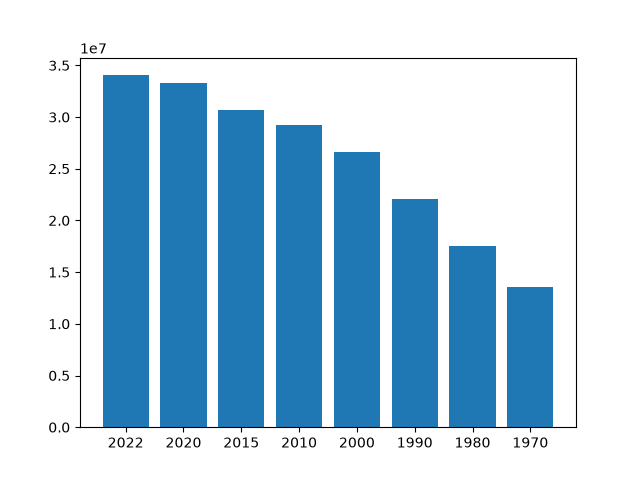
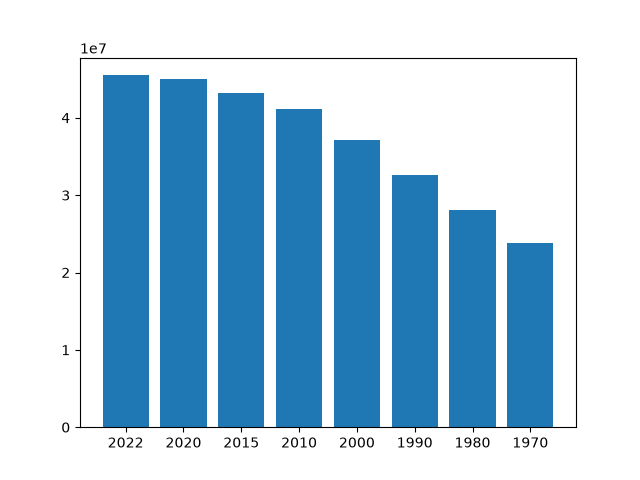
Creacion de Web-server y aplicacion de panda en App

diff --git a/app/main.py b/app/main.py
@@ -1,15 +1,22 @@
 import utils
 import read_csv
 import charts
+import pandas as pd
 
 def run():
   data = read_csv.read_csv('data.csv')
-  data = list(filter(lambda item : item['Continent'] == 'South America',data))
+  # data = list(filter(lambda item : item['Continent'] == 'South America',data))
 
-  countries = list(map(lambda x: x['Country/Territory'], data))
-  percentages = list(map(float, map(lambda x: x['World Population Percentage'], data)))
-  charts.generate_pie_chart(countries, percentages)
+  # countries = list(map(lambda x: x['Country/Territory'], data))
+  # percentages = list(map(float, map(lambda x: x['World Population Percentage'], data)))
   
+  
+  df = pd.read_csv('data.csv')
+  df = df[df['Continent'] == 'Africa']
+
+  countries = df['Country/Territory'].values
+  percentages = df['World Population Percentage'].values
+  charts.generate_pie_chart(countries, percentages)
   country = input('Type Country => ')
 
   result = utils.population_by_country(data, country)

diff --git a/web-server/main.py b/web-server/main.py
@@ -1,0 +1,22 @@
+import store
+from fastapi import FastAPI
+from fastapi.responses import HTMLResponse
+
+app = FastAPI()
+
+@app.get('/')
+def get_list():
+    return [1,2,3,]
+
+@app.get('/contact', response_class=HTMLResponse)
+def get_list():
+    return """
+        <h1>Hola soy una pagina</h1>
+        <p>soy un parrafo</p>
+    """
+
+def run():
+    store.get_categories()
+
+if __name__ == '__main__':
+    run()

diff --git a/web-server/store.py b/web-server/store.py
@@ -1,0 +1,10 @@
+import requests
+
+def get_categories():
+    r = requests.get('https://api.escuelajs.co/api/v1/categories')
+    print(r.status_code)
+    print(r.text)
+    print(type(r.text))
+    categories = r.json()
+    for category in categories:
+        print(category['name'])
